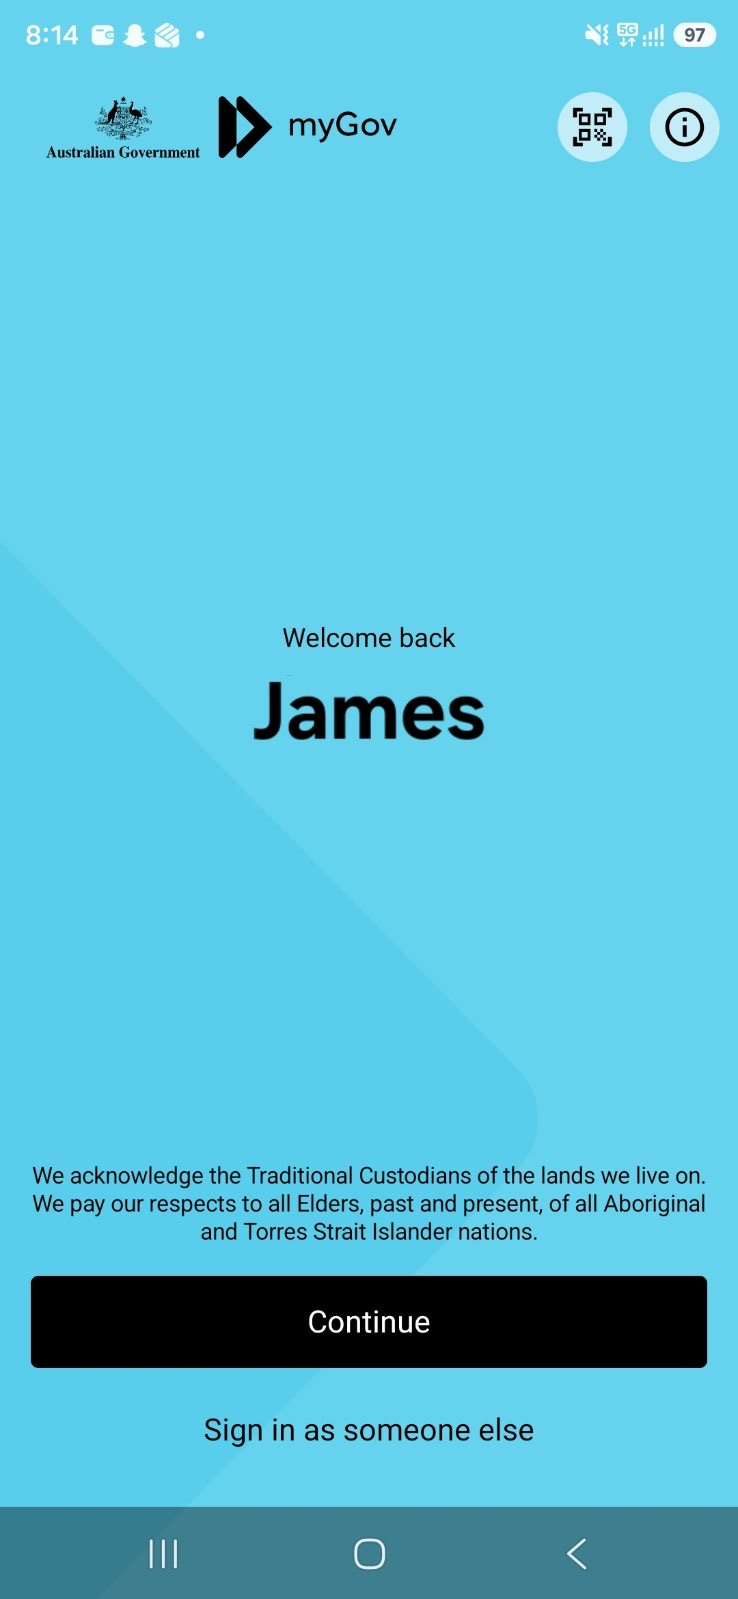
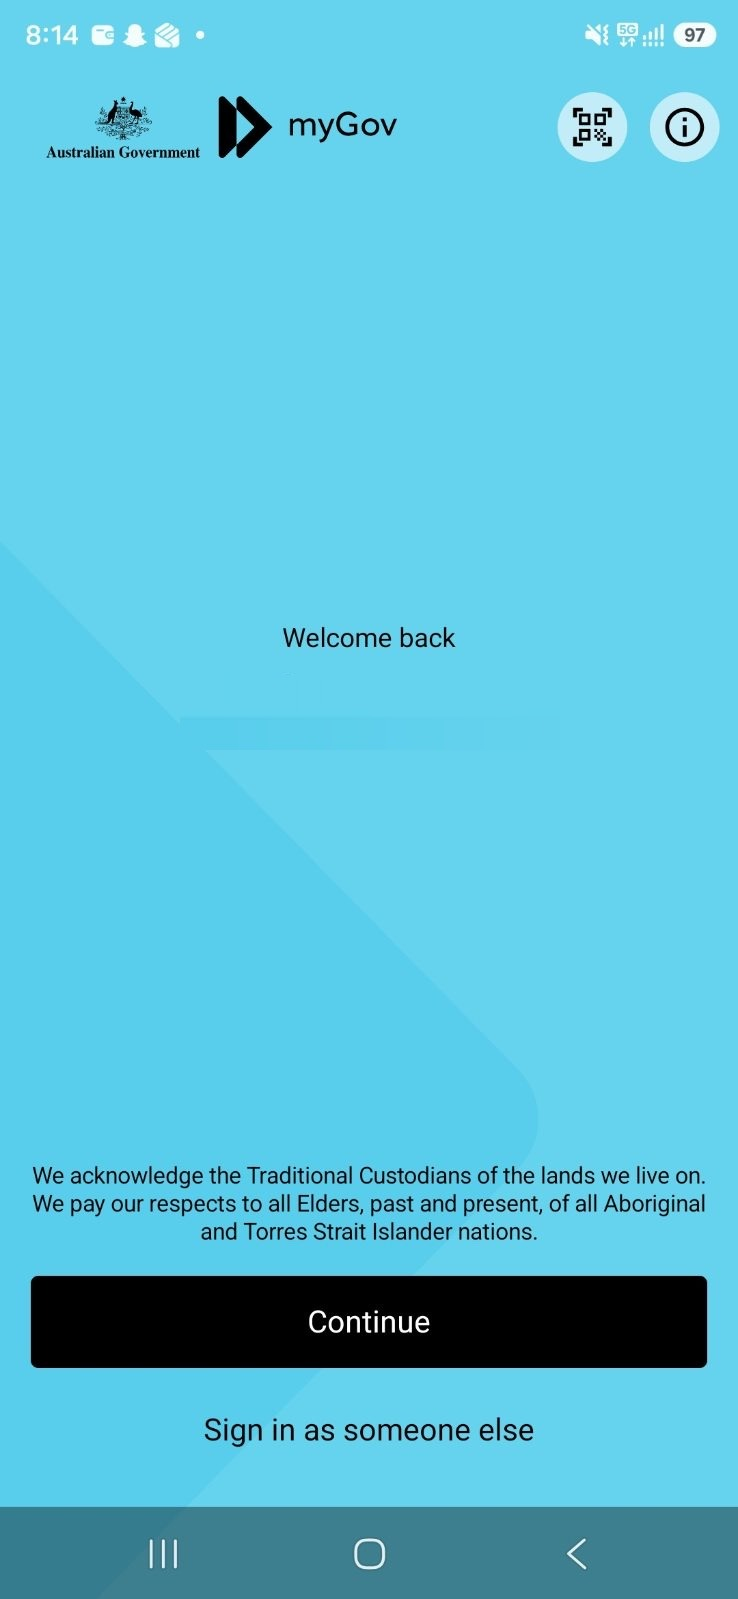
Paint names off the stills so details can be edited cleanly
Remove the original name and card text from the reference photos, then always draw crew-editable fields on top so changing James, initials, or Medicare details does not leave a coloured box on the screenshot.

Changed region(s): [[0.3428, 0.429, 0.6545, 0.4903]]

diff --git a/app.js b/app.js
@@ -58,8 +58,12 @@ function maskMedicare(num) {
 }
 
 function peopleLabel() {
-  const n = [profile.member1, profile.member2].filter((s) => String(s).trim()).length;
-  return n === 1 ? "1 person" : `${n || 2} people`;
+  const names = [profile.member1, profile.member2].filter((s) => String(s).trim());
+  const stillOriginal =
+    profile.member1 === ORIGINALS.member1 && !String(profile.member2).trim();
+  if (stillOriginal) return ORIGINALS.people;
+  if (names.length <= 1) return names.length === 1 ? "1 person" : ORIGINALS.people;
+  return `${names.length} people`;
 }
 
 function showScreen(id, push = true) {
@@ -97,7 +101,7 @@ function openOverlay(id) {
   if (el) el.classList.add("show");
 }
 
-function applyProfile() {
+function applyProfile(skipEditorSync = false) {
   const p = profile;
   p.medicareMasked = maskMedicare(p.medicareNumber);
   p.people = peopleLabel();
@@ -128,21 +132,16 @@ function applyProfile() {
     el.textContent = p.inbox;
   });
 
-  toggleCover("welcomeNameCover", p.firstName !== ORIGINALS.firstName);
-  toggleCover("hccCover", p.initials !== ORIGINALS.initials);
+  toggleCover("welcomeNameCover", true);
+  toggleCover("hccCover", true);
+  toggleCover("walletMedCover", true);
+  toggleCover("medDetailCover", true);
   toggleCover(
-    "walletMedCover",
-    p.medicareMasked !== ORIGINALS.medicareMasked || p.people !== ORIGINALS.people
+    "updatedCover",
+    p.lastUpdated !== ORIGINALS.lastUpdated && `Last updated ${p.lastUpdated}` !== ORIGINALS.lastUpdated
   );
-  const medDirty =
-    p.medicareNumber !== ORIGINALS.medicareNumber ||
-    p.member1 !== ORIGINALS.member1 ||
-    String(p.member2) !== ORIGINALS.member2 ||
-    p.validTo !== ORIGINALS.validTo;
-  toggleCover("medDetailCover", medDirty);
-  toggleCover("updatedCover", p.lastUpdated !== ORIGINALS.lastUpdated && `Last updated ${p.lastUpdated}` !== ORIGINALS.lastUpdated);
 
-  fillEditor();
+  if (!skipEditorSync) fillEditor();
 }
 
 function toggleCover(id, on) {
@@ -173,7 +172,7 @@ function fillEditor() {
   if (mfilm) mfilm.checked = document.body.classList.contains("film");
 }
 
-function readEditor(prefix) {
+function readEditor(prefix, quiet = false) {
   const g = (id) => document.getElementById(prefix + id)?.value ?? "";
   profile.firstName = g("f-first").trim() || ORIGINALS.firstName;
   profile.fullName = g("f-full").trim() || profile.firstName;
@@ -190,8 +189,9 @@ function readEditor(prefix) {
   document.body.classList.toggle("film", !!(filmBox && filmBox.checked));
   localStorage.setItem("mygov-prop-film", document.body.classList.contains("film") ? "1" : "0");
   saveProfile();
-  applyProfile();
-  toast("Details updated");
+  applyProfile(true);
+  renderInbox();
+  if (!quiet) toast("Details updated");
 }
 
 function renderPin() {
@@ -330,6 +330,7 @@ document.querySelectorAll(".overlay").forEach((ov) => {
 });
 
 document.getElementById("saveDetails")?.addEventListener("click", () => readEditor(""));
+document.getElementById("editor")?.addEventListener("input", () => readEditor("", true));
 document.getElementById("resetDetails")?.addEventListener("click", () => {
   profile = { ...ORIGINALS };
   localStorage.removeItem(KEY);

diff --git a/index.html b/index.html
@@ -17,7 +17,7 @@
     <div id="phone">
       <div id="app">
 
-        <section class="screen active" id="welcome" style="background-image:url('screens/welcome.jpg')">
+        <section class="screen active" id="welcome" style="background-image:url('screens/welcome.jpg?v=2')">
           <button class="hot" style="left:78%;top:6.4%;width:10%;height:4.6%" data-go="scanner" aria-label="Scan"></button>
           <button class="hot" style="left:88.5%;top:6.4%;width:10%;height:4.6%" data-go="info" aria-label="Info"></button>
           <div class="cover cover-cyan name-cover" id="welcomeNameCover">
@@ -27,7 +27,7 @@
           <button class="hot" style="left:22%;top:88.4%;width:56%;height:2.4%" data-go="signin" aria-label="Sign in as someone else"></button>
         </section>
 
-        <section class="screen" id="pin" style="background-image:url('screens/pin.jpg')">
+        <section class="screen" id="pin" style="background-image:url('screens/pin.jpg?v=2')">
           <button class="hot" style="left:3%;top:6.8%;width:12%;height:4.6%" data-go="welcome" aria-label="Back"></button>
           <button class="hot" style="left:70%;top:6.8%;width:27%;height:4.6%" data-go="forgot" aria-label="Forgot PIN"></button>
           <div class="pin-dots" id="pinDots"><i></i><i></i><i></i><i></i><i></i><i></i></div>
@@ -39,7 +39,7 @@
           </div>
         </section>
 
-        <section class="screen" id="wallet" style="background-image:url('screens/wallet.jpg')">
+        <section class="screen" id="wallet" style="background-image:url('screens/wallet.jpg?v=2')">
           <button class="hot" style="left:76%;top:5.8%;width:10%;height:4.8%" data-msg="Edit wallet" aria-label="Edit"></button>
           <button class="hot" style="left:87%;top:5.8%;width:10%;height:4.8%" data-go="addcard" aria-label="Add"></button>
           <button class="hot" style="left:4%;top:19.2%;width:92%;height:26.2%" data-go="hcc" aria-label="Health Care Card"></button>
@@ -57,7 +57,7 @@
           </div>
         </section>
 
-        <section class="screen" id="services" style="background-image:url('screens/services.jpg')">
+        <section class="screen" id="services" style="background-image:url('screens/services.jpg?v=2')">
           <button class="hot" style="left:76%;top:5.8%;width:10%;height:4.8%" data-msg="Edit services" aria-label="Edit"></button>
           <button class="hot" style="left:87%;top:5.8%;width:10%;height:4.8%" data-go="linksvc" aria-label="Add"></button>
           <button class="hot" style="left:4%;top:19.3%;width:92%;height:6.8%" data-go="forms" aria-label="Forms"></button>
@@ -73,7 +73,7 @@
           </div>
         </section>
 
-        <section class="screen" id="medicare" style="background-image:url('screens/medicare.jpg')">
+        <section class="screen" id="medicare" style="background-image:url('screens/medicare.jpg?v=2')">
           <button class="hot" style="left:2.5%;top:5.8%;width:12%;height:5%" data-back aria-label="Back"></button>
           <button class="hot" style="left:86%;top:5.8%;width:12%;height:5%" data-go="cardmenu" aria-label="More"></button>
           <div class="cover cover-white meddetail-cover" id="medDetailCover">

diff --git a/styles.css b/styles.css
@@ -65,10 +65,10 @@ body.debug .hot { outline: 1px solid rgba(255, 0, 0, .45); background: rgba(255,
   line-height: 1;
 }
 .cover.show { display: flex; }
-.cover-cyan { background: #63c9e3; color: #111; }
-.cover-cream { background: var(--cream); color: #111; }
-.cover-medgreen { background: var(--med); color: #111; flex-direction: column; align-items: flex-start; }
-.cover-white { background: #f7f7f7; color: #111; flex-direction: column; align-items: flex-start; }
+.cover-cyan { background: transparent; color: #111; }
+.cover-cream { background: transparent; color: #111; }
+.cover-medgreen { background: transparent; color: #111; flex-direction: column; align-items: flex-start; }
+.cover-white { background: transparent; color: #111; flex-direction: column; align-items: flex-start; }
 .cover-dark { background: #0d1114; color: #a8adb3; }
 
 .name-cover {
@@ -82,14 +82,15 @@ body.debug .hot { outline: 1px solid rgba(255, 0, 0, .45); background: rgba(255,
 #phone { container-type: size; }
 
 .initials-cover {
-  left: 8%;
+  left: 5.2%;
   width: 22%;
-  top: 41.5%;
-  height: 3.6%;
+  top: 41.4%;
+  height: 3.8%;
   justify-content: flex-start;
   font-weight: 600;
-  font-size: 1.55cqh;
-  padding-left: 2%;
+  font-size: 3.2cqh;
+  padding-left: 1.2%;
+  letter-spacing: 0.04em;
 }
 
 .mednum-cover {
@@ -100,8 +101,8 @@ body.debug .hot { outline: 1px solid rgba(255, 0, 0, .45); background: rgba(255,
   padding-left: 1%;
   justify-content: center;
 }
-#walletMedNum { font-weight: 700; font-size: 2.15cqh; letter-spacing: .3px; }
-#walletPeople { font-size: 1.25cqh; margin-top: .35cqh; }
+#walletMedNum { font-weight: 700; font-size: 2.4cqh; letter-spacing: .3px; }
+#walletPeople { font-size: 1.45cqh; margin-top: .35cqh; }
 
 .meddetail-cover {
   left: 8.5%;

diff --git a/sw.js b/sw.js
@@ -1,4 +1,4 @@
-const CACHE = "mygov-prop-v1";
+const CACHE = "mygov-prop-v2";
 const ASSETS = ["./","index.html","styles.css","app.js","manifest.webmanifest","icon.svg"];
 
 self.addEventListener("install", (event) => {

diff --git a/README.md b/README.md
@@ -40,6 +40,6 @@ You can change:
 - PIN (leave blank to accept any 6 digits)
 - Inbox count
 
-Fields that still match the original screenshots stay as the photo. Changed fields are drawn on top.
+Name and card fields are drawn on top of the photos so they can be changed without a reshoot.
 
 Tick **Hide editor button** before filming. Triple-tap the top of the screen to bring editing back.
